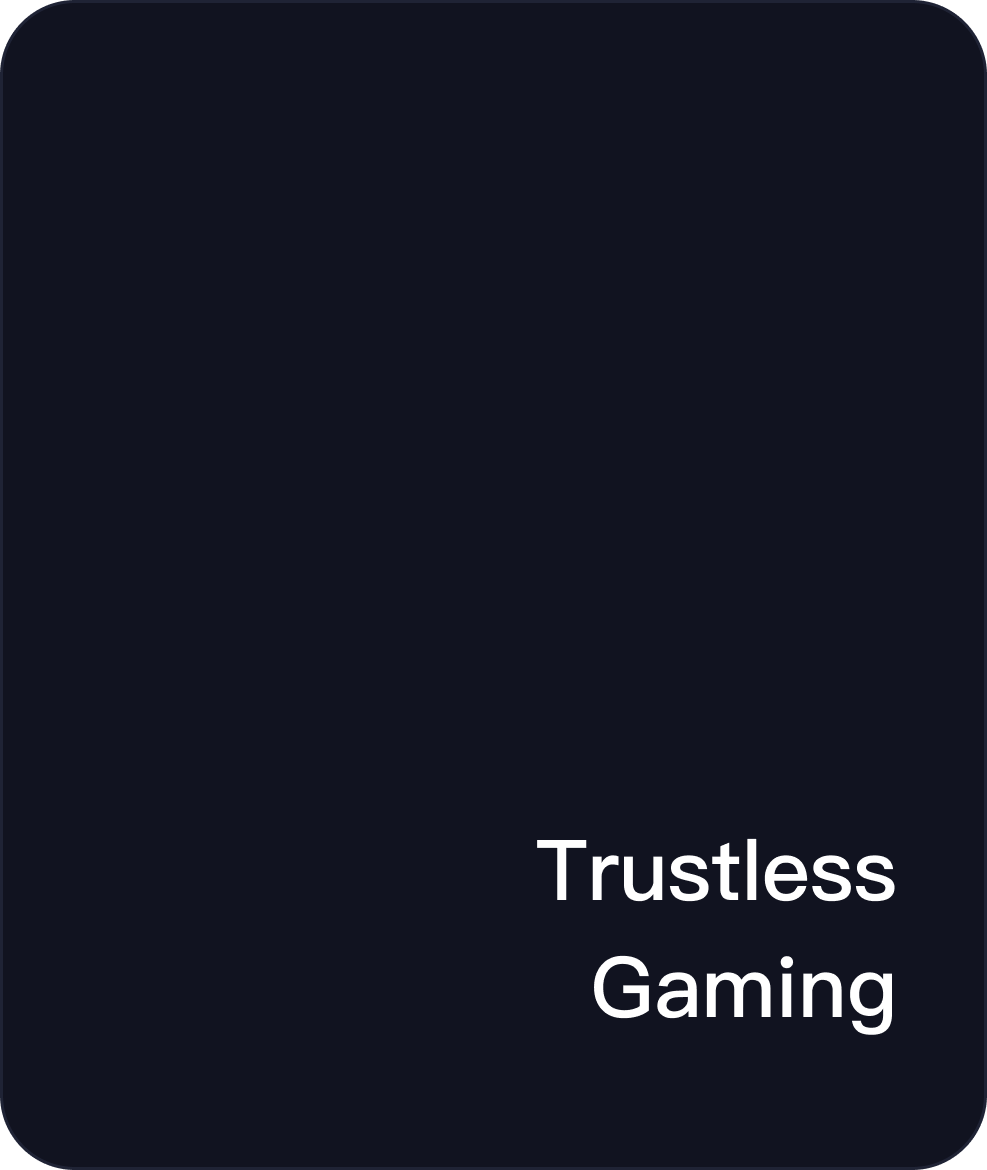
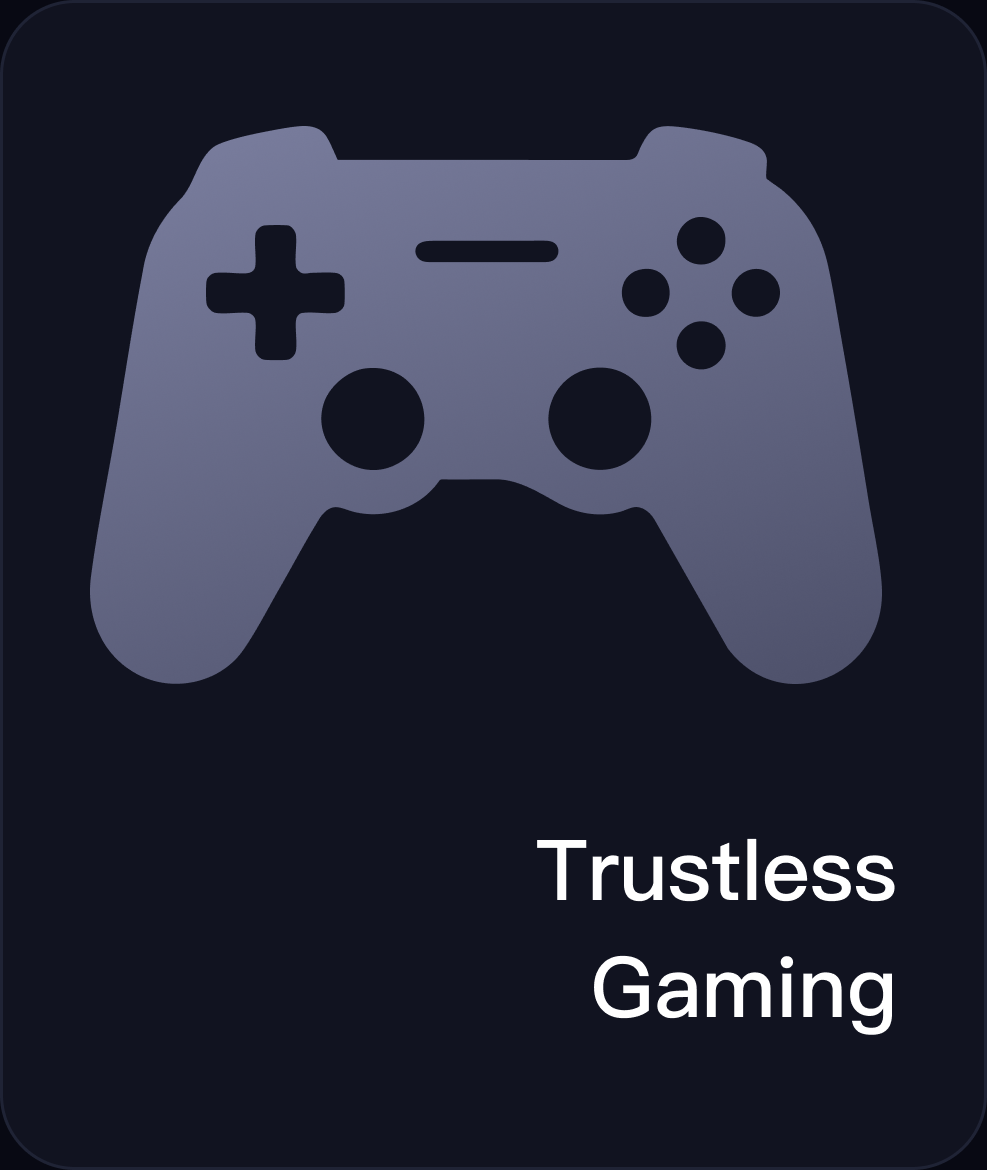
1

diff --git a/apps/web/app/fhera/FheraBody.tsx b/apps/web/app/fhera/FheraBody.tsx
@@ -5,6 +5,12 @@ import { CaseHeader } from "@/components/portfolio/case-header"
 import { SkipLink } from "@/components/portfolio/skip-link"
 import { siteLinks } from "@/config/site-links"
 
+import {
+  fheraBentoCollage as bento,
+  fheraBentoMobileSequence,
+  fheraBentoSrc,
+} from "./fhera-bento-assets"
+
 export function FheraBody() {
   return (
     <>
@@ -49,45 +55,60 @@ export function FheraBody() {
                 </p>
               </div>
 
-              <div className="bento" role="list" aria-label="Fhera applications">
-                <article className="bento-card bento-a" role="listitem">
-                  <h3 className="bento-title">
-                    Data Security <br />Reinvented
-                  </h3>
-                  <span className="bento-orb bento-orb--purple" aria-hidden="true"></span>
-                </article>
-
-                <article className="bento-card bento-b" role="listitem">
-                  <h3 className="bento-title">Privacy<br />Preserving AI</h3>
-                  <span className="bento-orb bento-orb--violet" aria-hidden="true"></span>
-                </article>
-
-                <article className="bento-card bento-c" role="listitem">
-                  <h3 className="bento-title">Decentralized<br />Identity</h3>
-                  <span className="bento-orb bento-orb--cyan" aria-hidden="true"></span>
-                </article>
-
-                <article className="bento-card bento-d" role="listitem">
-                  <span className="bento-orb bento-orb--center" aria-hidden="true"></span>
-                  <p className="bento-mark" aria-hidden="true">FHERA</p>
-                </article>
-
-                <article className="bento-card bento-e" role="listitem">
-                  <h3 className="bento-title bento-title--right">Trustless<br />Gaming</h3>
-                  <span className="bento-orb bento-orb--pink" aria-hidden="true"></span>
-                </article>
-
-                <article className="bento-card bento-f" role="listitem">
-                  <h3 className="bento-title">Confidential<br />Transaction</h3>
-                  <span className="bento-orb bento-orb--blue" aria-hidden="true"></span>
-                </article>
-
-                <article className="bento-card bento-g" role="listitem">
-                  <h3 className="bento-title bento-title--right">
-                    Confidential<br />DeFi
-                  </h3>
-                  <span className="bento-orb bento-orb--green" aria-hidden="true"></span>
-                </article>
+              <div className="fhera-intro-bento-media">
+                <div
+                  className="fb-web-bento fhera-bento fhera-bento--desktop"
+                  role="group"
+                  aria-label="Fhera applications and technology collage"
+                >
+                  <div className="fb-web-bento-cell fb-web-bento-a">
+                    <img src={fheraBentoSrc(bento.leftTall.file)} alt={bento.leftTall.alt} loading="lazy" />
+                  </div>
+                  <div className="fb-web-bento-cell fb-web-bento-b">
+                    <img src={fheraBentoSrc(bento.topCenter.file)} alt={bento.topCenter.alt} loading="lazy" />
+                  </div>
+                  <div
+                    className="fb-web-bento-right-stack"
+                    role="group"
+                    aria-label="Decentralized identity and trustless gaming"
+                  >
+                    <div className="fb-web-bento-right-half">
+                      <img src={fheraBentoSrc(bento.rightTop.file)} alt={bento.rightTop.alt} loading="lazy" />
+                    </div>
+                    <div className="fb-web-bento-right-half">
+                      <img
+                        src={fheraBentoSrc(bento.rightBottom.file)}
+                        alt={bento.rightBottom.alt}
+                        loading="lazy"
+                      />
+                    </div>
+                  </div>
+                  <div className="fb-web-bento-cell fb-web-bento-d">
+                    <img src={fheraBentoSrc(bento.center.file)} alt={bento.center.alt} loading="lazy" />
+                  </div>
+                  <div className="fb-web-bento-row3-left">
+                    <div className="fb-web-bento-cell fb-web-bento-f">
+                      <img src={fheraBentoSrc(bento.bottomLeft.file)} alt={bento.bottomLeft.alt} loading="lazy" />
+                    </div>
+                    <div className="fb-web-bento-cell fb-web-bento-e">
+                      <img src={fheraBentoSrc(bento.bottomRight.file)} alt={bento.bottomRight.alt} loading="lazy" />
+                    </div>
+                  </div>
+                </div>
+                <div
+                  className="fhera-bento-mobile"
+                  role="group"
+                  aria-label="Fhera applications and technology collage"
+                >
+                  {fheraBentoMobileSequence().map((item, index) => (
+                    <div
+                      key={`${item.file}-${index}`}
+                      className="fb-web-bento-cell fhera-bento-mobile-cell"
+                    >
+                      <img src={fheraBentoSrc(item.file)} alt={item.alt} loading="lazy" />
+                    </div>
+                  ))}
+                </div>
               </div>
             </section>
 
@@ -148,12 +169,13 @@ export function FheraBody() {
                 <div className="goal-grid" role="list">
                   <article className="goal-card" role="listitem">
                     <span className="goal-icon" aria-hidden="true">
-                      <svg viewBox="0 0 24 24" width="24" height="24" fill="none" stroke="currentColor" strokeWidth="1.7" strokeLinecap="round" strokeLinejoin="round">
-                        <rect x="3" y="3" width="7" height="7" rx="1.4" />
-                        <rect x="14" y="3" width="7" height="7" rx="1.4" />
-                        <rect x="3" y="14" width="7" height="7" rx="1.4" />
-                        <rect x="14" y="14" width="7" height="7" rx="1.4" />
-                      </svg>
+                      <img
+                        src="/assets/fb-web-goal-1.png"
+                        alt=""
+                        width="50"
+                        height="50"
+                        loading="lazy"
+                      />
                     </span>
                     <p className="goal-text">
                       Developed a comprehensive design system that clearly
@@ -162,11 +184,13 @@ export function FheraBody() {
                   </article>
                   <article className="goal-card" role="listitem">
                     <span className="goal-icon" aria-hidden="true">
-                      <svg viewBox="0 0 24 24" width="24" height="24" fill="none" stroke="currentColor" strokeWidth="1.7" strokeLinecap="round" strokeLinejoin="round">
-                        <rect x="3" y="4" width="18" height="14" rx="2" />
-                        <path d="M3 8h18" />
-                        <path d="M9 14h6" />
-                      </svg>
+                      <img
+                        src="/assets/fb-web-goal-2.png"
+                        alt=""
+                        width="50"
+                        height="50"
+                        loading="lazy"
+                      />
                     </span>
                     <p className="goal-text">
                       Lunch a landing page to direct to functionalities
@@ -174,11 +198,13 @@ export function FheraBody() {
                   </article>
                   <article className="goal-card" role="listitem">
                     <span className="goal-icon" aria-hidden="true">
-                      <svg viewBox="0 0 24 24" width="24" height="24" fill="none" stroke="currentColor" strokeWidth="1.7" strokeLinecap="round" strokeLinejoin="round">
-                        <path d="M12 3l8 4-8 4-8-4 8-4z" />
-                        <path d="M4 11l8 4 8-4" />
-                        <path d="M4 15l8 4 8-4" />
-                      </svg>
+                      <img
+                        src="/assets/fb-web-goal-3.png"
+                        alt=""
+                        width="50"
+                        height="50"
+                        loading="lazy"
+                      />
                     </span>
                     <p className="goal-text">
                       Explain Fully Homomorphic Encryption (FHE) technology to
@@ -187,10 +213,13 @@ export function FheraBody() {
                   </article>
                   <article className="goal-card" role="listitem">
                     <span className="goal-icon" aria-hidden="true">
-                      <svg viewBox="0 0 24 24" width="24" height="24" fill="none" stroke="currentColor" strokeWidth="1.7" strokeLinecap="round" strokeLinejoin="round">
-                        <path d="M4 19V5a2 2 0 0 1 2-2h11l3 3v13a2 2 0 0 1-2 2H6a2 2 0 0 1-2-2z" />
-                        <path d="M8 8h7M8 12h9M8 16h6" />
-                      </svg>
+                      <img
+                        src="/assets/fb-web-goal-4.png"
+                        alt=""
+                        width="50"
+                        height="50"
+                        loading="lazy"
+                      />
                     </span>
                     <p className="goal-text">
                       Explore and provide real-time news updates related to the

diff --git a/apps/web/app/fhera/fhera-bento-assets.ts b/apps/web/app/fhera/fhera-bento-assets.ts
@@ -1,0 +1,57 @@
+/**
+ * Fhera intro bento (fb-web-bento) — image per layout slot.
+ * Reorder: change `file` (PNG name under /public/assets/fhera/) or swap which
+ * slot uses which entry; layout positions are fixed by class names in FheraBody.
+ */
+const FHERA_BENTO_DIR = "/assets/fhera"
+
+export type FheraBentoSlot = {
+  /** PNG filename without extension, e.g. "1" → /assets/fhera/1.png */
+  file: string
+  alt: string
+}
+
+function slot(file: string, alt: string): FheraBentoSlot {
+  return { file, alt }
+}
+
+export function fheraBentoSrc(file: string): string {
+  return `${FHERA_BENTO_DIR}/${file}.png`
+}
+
+/** Maps to the Fontainebleau-style bento grid used on the Fhera case page */
+export const fheraBentoCollage = {
+  /** Left column, spans rows 1–2 */
+  leftTall: slot("1", "Data security and encryption concept artwork for Fhera."),
+  /** Top center */
+  topCenter: slot("2", "Privacy-preserving AI visual for Fhera."),
+  /** Right stack, upper half */
+  rightTop: slot("4", "Decentralized identity illustration for Fhera."),
+  /** Right stack, lower half */
+  rightBottom: slot("7", "Trustless gaming concept artwork for Fhera."),
+  /** Middle cell (row 2, column 2) */
+  center: slot("3", "Fhera brand and product centerpiece visual."),
+  /** Bottom row, left half (under left column) */
+  bottomLeft: slot("5", "Confidential transactions visual for Fhera."),
+  /** Bottom row, right half */
+  bottomRight: slot("6", "Confidential DeFi visual for Fhera."),
+} as const
+
+/** Narrow screens: show images in numeric file order (1, 2, 3…). */
+export function fheraBentoMobileSequence(): FheraBentoSlot[] {
+  const c = fheraBentoCollage
+  const slots: FheraBentoSlot[] = [
+    c.leftTall,
+    c.topCenter,
+    c.rightTop,
+    c.rightBottom,
+    c.center,
+    c.bottomLeft,
+    c.bottomRight,
+  ]
+  return [...slots].sort((a, b) => {
+    const na = Number.parseInt(a.file, 10)
+    const nb = Number.parseInt(b.file, 10)
+    return (Number.isNaN(na) ? 0 : na) - (Number.isNaN(nb) ? 0 : nb)
+  })
+}

diff --git a/apps/web/styles/portfolio.css b/apps/web/styles/portfolio.css
@@ -1839,6 +1839,12 @@ main {
   justify-content: center;
   color: #c5c8e6;
 }
+.goal-icon img {
+  width: 100%;
+  height: 100%;
+  object-fit: contain;
+  display: block;
+}
 .goal-text {
   margin: 0;
   font-size: 18px;
@@ -2266,7 +2272,6 @@ main {
   width: 100%;
   border-radius: 24px;
   overflow: hidden;
-  background: #0e1330;
   display: block;
 }
 .brand-frame img {
@@ -2277,7 +2282,7 @@ main {
 }
 .brand-frame--draft img,
 .brand-frame--final img {
-  background: #f7f7f9;
+  background: transparent;
 }
 .brand-frame--shadow {
   box-shadow: 0 30px 60px -24px rgba(0, 0, 0, 0.6);
@@ -2668,6 +2673,18 @@ main {
   min-height: 0;
 }
 
+/* Fhera intro reuses fb-web-bento grid; center tile is full-bleed image (not hotel logo plate) */
+.fhera-bento .fb-web-bento-d {
+  display: block;
+  padding: 0;
+  background: #0d0e19;
+  border-color: #1f2335;
+}
+
+.fhera-bento-mobile {
+  display: none;
+}
+
 .goal-grid--fb-web {
   align-content: start;
 }
@@ -2874,6 +2891,22 @@ main {
   }
   .fb-web-bento-row3-left {
     grid-template-columns: 1fr;
+  }
+
+  .fb-web-bento.fhera-bento.fhera-bento--desktop {
+    display: none !important;
+  }
+  .fhera-bento-mobile {
+    display: flex;
+    flex-direction: column;
+    gap: 14px;
+    width: 100%;
+    max-width: 1200px;
+    margin: 0 auto;
+    padding: 0;
+  }
+  .fhera-bento-mobile-cell {
+    min-height: 160px;
   }
 }
 
